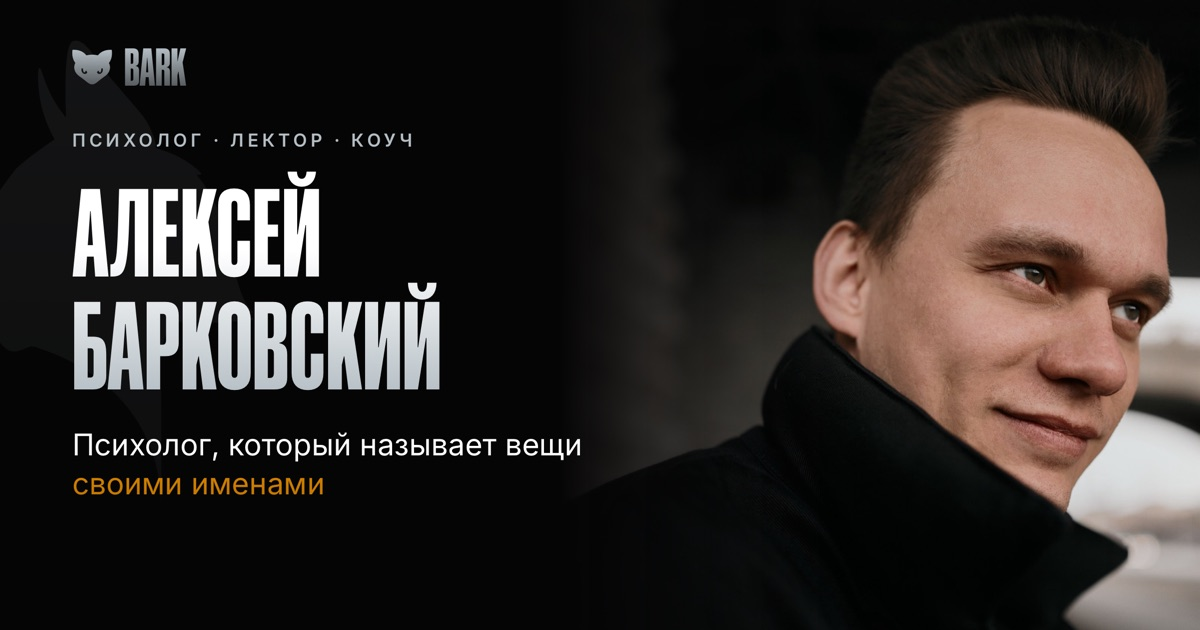
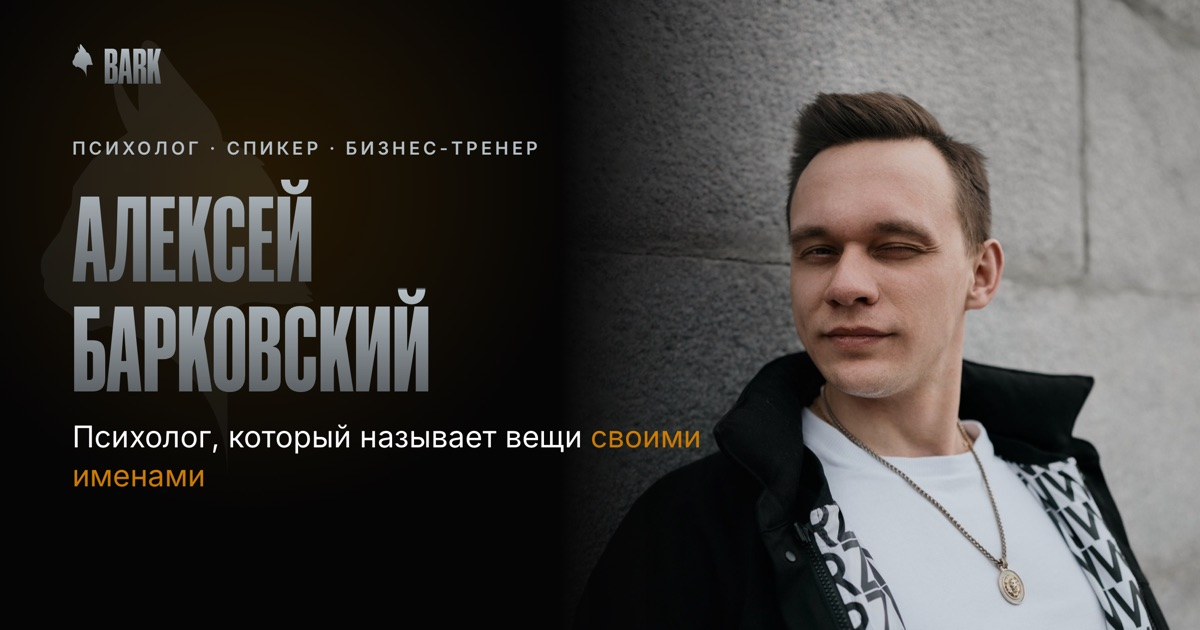
Политика, превью ссылки и правила проекта под новый дизайн

diff --git a/privacy.html b/privacy.html
@@ -21,7 +21,7 @@
   <header class="header">
     <div class="container header__inner">
       <a class="header__logo" href="index.html" aria-label="BARK — на главную">
-        <span class="mark mark--cat-face" aria-hidden="true"></span>
+        <span class="mark mark--cat" aria-hidden="true"></span>
         <span class="mark mark--bark" aria-hidden="true"></span>
       </a>
       <a class="btn btn--ghost btn--small" href="index.html">На главную</a>
@@ -36,7 +36,7 @@
   <main class="page">
     <div class="container page__inner">
       <h1 class="title page__title">Политика конфиденциальности</h1>
-      <p class="page__date">Редакция от 29 октября 2026 года</p>
+      <p class="page__date">Редакция от 31 октября 2026 года</p>
 
       <div class="prose">
         <h2>1. Общие положения</h2>
@@ -48,7 +48,7 @@
         <p>Сайт размещён на хостинге GitHub Pages (GitHub, Inc.). Хостинг-провайдер может автоматически фиксировать технические данные запросов (IP-адрес, тип браузера, дату и время обращения) для обеспечения работы и безопасности. Оператор не имеет доступа к этим данным и не использует их.</p>
 
         <h2>3. Когда вы пишете Оператору</h2>
-        <p>Кнопки «Пригласить спикером», «Хочу эту лекцию» и другие ссылки ведут в Telegram или открывают письмо на почту. Отправляя сообщение, вы сами передаёте Оператору данные, которые указали: имя, контакт для связи, сведения о мероприятии.</p>
+        <p>Кнопки «Пригласить спикером», «Выбрать эту лекцию» и другие ссылки ведут в Telegram или открывают письмо на почту. Отправляя сообщение, вы сами передаёте Оператору данные, которые указали: имя, контакт для связи, сведения о мероприятии.</p>
         <ul>
           <li><strong>Цель:</strong> ответить на обращение, обсудить и организовать выступление.</li>
           <li><strong>Основание:</strong> ваше согласие, выраженное отправкой сообщения, а также подготовка и исполнение договора, стороной которого вы являетесь.</li>
@@ -57,7 +57,7 @@
         <p>Сообщения передаются через сервисы Telegram и почтовых провайдеров, которые обрабатывают данные по своим правилам.</p>
 
         <h2>4. Сторонние сервисы</h2>
-        <p>На Сайте есть ссылки на Telegram, ВКонтакте и Instagram*. Если на Сайте размещено видео из VK Видео, при его просмотре сервис VK может обрабатывать данные по своей политике. Оператор не отвечает за обработку данных этими сервисами — рекомендуем ознакомиться с их правилами.</p>
+        <p>На Сайте есть ссылки на Telegram, ВКонтакте и Instagram*. Видео на Сайте размещено в VK Видео. Плеер VK загружается только после нажатия кнопки «Смотреть лекцию» — с этого момента сервис VK может обрабатывать данные по своей политике. Оператор не отвечает за обработку данных этими сервисами — рекомендуем ознакомиться с их правилами.</p>
         <p>* Instagram принадлежит компании Meta, признанной экстремистской и запрещённой в РФ.</p>
 
         <h2>5. Передача и защита данных</h2>
